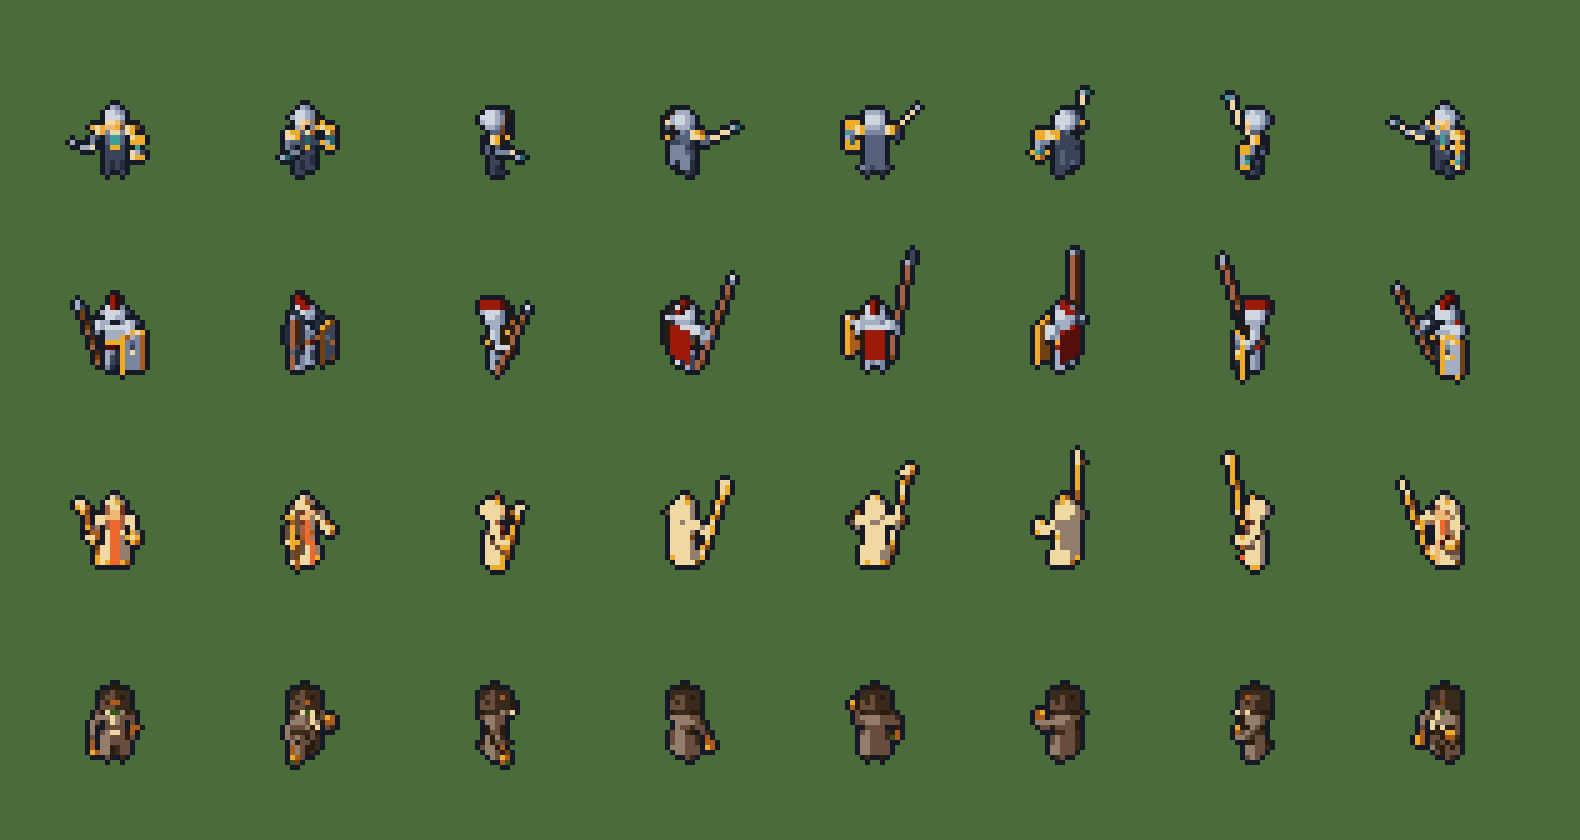
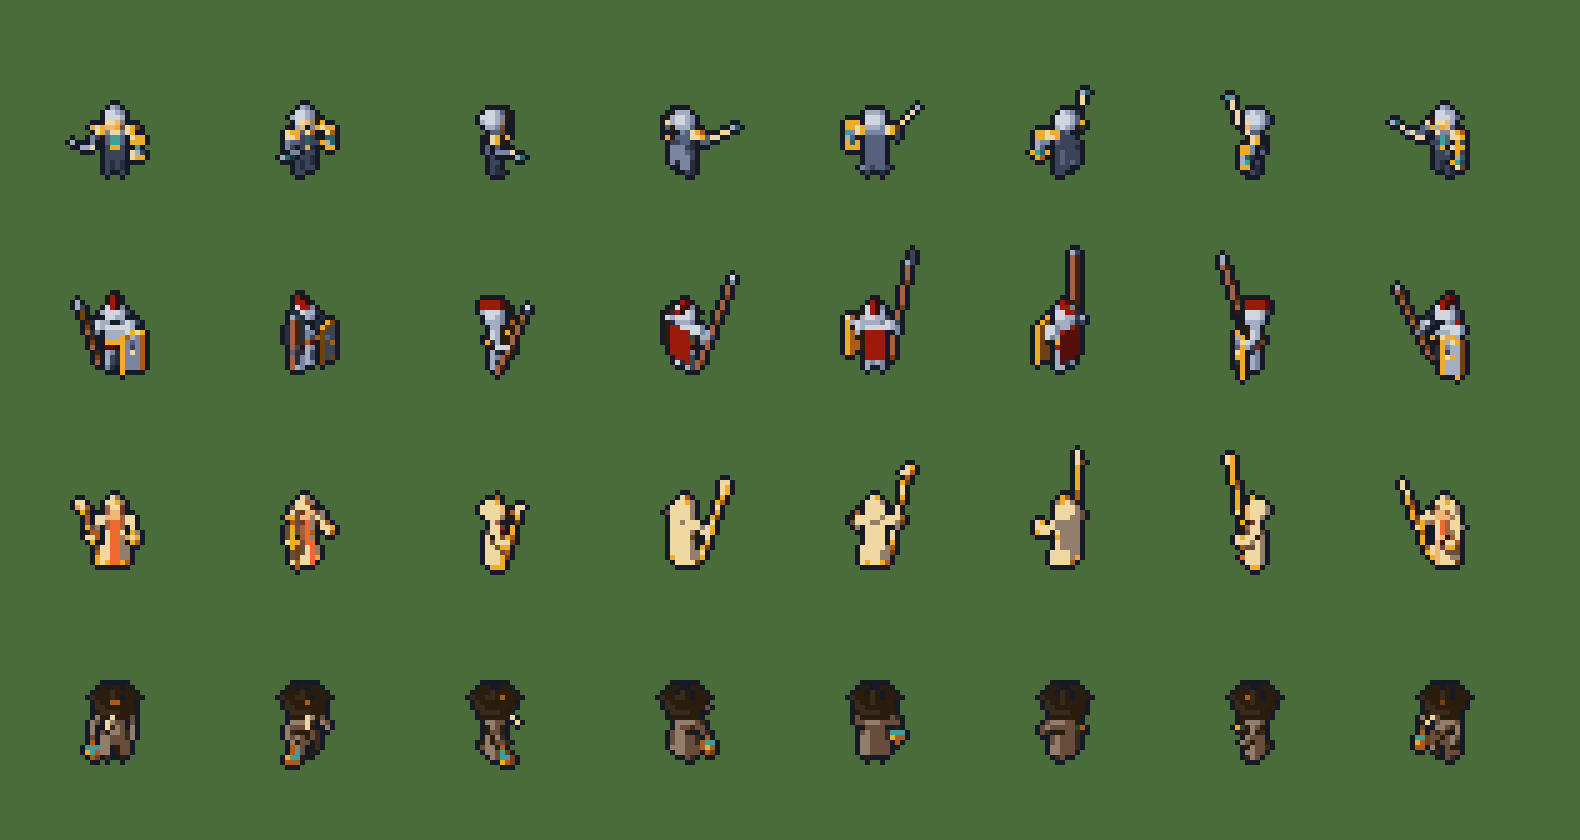
베스퍼 모자·새부리·독빛 — 챙 넓히고 어둡게, 새부리 틀기·조끼 낮추기, 향로 청록 독빛, 컴퍼스 빼기(Gemini 4차 «상»)
Gemini 4차가 베스퍼를 불합격으로 본 까닭(갈색 덩어리, S 새부리·조끼가 붙음, 독빛이 죽음, 컴퍼스 1px 점)을 고쳤다.
사용자가 «상» 지적 전부를 고르게 했다(2026-10-19).
독빛은 청록·노랑·독녹 세 안을 견줘 청록으로 했다. 렌즈는 45°에서 챙에 가려 어떤 색이어도 안 보인다.
45°에서는 새부리 끝이 조끼 높이까지 내려와, 조끼를 뼈색 그늘 단계로 낮춰 밝은 뼈색은 새부리만 쓴다.

Claude-Session: https://claude.ai/code/session_01XsJzvSywTfhUgL72Hqiuhg

diff --git a/tools/art/vesper.py b/tools/art/vesper.py
@@ -12,19 +12,25 @@ import render as R
 import seraphina as S
 
 OUT = Path(__file__).resolve().parents[2] / "art" / "trial" / "vesper"
+# 독빛은 청록이다. f24p에 밝은 연두가 없다. 노랑(efac28)은 놋쇠 향로와 섞였고, 독녹(39571c)은 들판에 묻혔다(세 안 비교, Gemini 4차 안 2026-10-19)
+GLOW = ["2d472d", "3c9f9c", "3c9f9c", "3c9f9c", "3c9f9c"]
 # 값이 hex 하나면 자동 램프, 5개 목록이면 손 램프(안쪽 외곽선, 음영 0~3. hero.ramp). f24p에 밝은 연두가 없어 독빛은 39571c, 그늘은 2d472d다(컨셉 README)
 BASE = {"leather": ["2a1d0d", "392a1c", "684c3c", "684c3c", "927e6a"],
-        "hat": ["2a1d0d", "2a1d0d", "392a1c", "392a1c", "684c3c"],
+        # 모자·장화·장갑. 2a1d0d~684c3c였을 때 코트와 명도가 붙어 1·2배에서 갈색 한 덩어리였다(Gemini 4차 2026-10-19)
+        "hat": ["151a26", "151a26", "2a1d0d", "2a1d0d", "392a1c"],
         "bone": ["684c3c", "927e6a", "927e6a", "efd8a1", "efd8a1"],
+        # 조끼는 뼈색 그늘 단계만 쓴다. 뼈색(efd8a1)이면 남(정면)에서 새부리 끝과 겹쳐 흰 넥타이로 이어졌다(Gemini 4차 2026-10-19)
+        "vest": ["392a1c", "684c3c", "927e6a", "927e6a", "927e6a"],
         "toxin": ["1f240a", "2d472d", "39571c", "39571c", "39571c"],
-        "brass": ["2a1d0d", "724113", "ab5c1c", "ab5c1c", "efac28"]}
+        "brass": ["2a1d0d", "724113", "ab5c1c", "ab5c1c", "efac28"],
+        "glow": GLOW}  # 렌즈·향로 독빛
 MATS = list(BASE)
-PARTS = ["leg", "torso", "head", "arm", "censer", "compass"]
+PARTS = ["leg", "torso", "head", "arm", "censer"]
 SIZES = (24,)
-TAG = f"m5 ppu{H.PPU24} vesper1"  # 형체 크기를 바꾸면 이 꼬리표도 바꾼다(fit.json)
+TAG = f"m5 ppu{H.PPU24} vesper2"  # 형체 크기를 바꾸면 이 꼬리표도 바꾼다(fit.json)
 
 CENSER = dict(sh_r=10, el_r=30, ab_r=0.6, sword=175, sword_side=0)  # 향로 사슬은 손에서 곧장 아래로 늘어진다(sword 180 = 아래)
-L_ARM = dict(sh_l=25, el_l=60, ab_l=0.3)  # 컴퍼스를 가슴 높이 앞에 든다
+L_ARM = dict(sh_l=15, el_l=30, ab_l=0.3)  # 빈 왼손. 컴퍼스는 24px에서 1px 주황 점이라 뺐다(Gemini 4차 2026-10-19)
 IDLE = dict(H.IDLE, **CENSER, **L_ARM)
 WALK = [dict(w, **CENSER, **L_ARM) for w in H.WALK]
 # 공격은 원거리(S121 사거리 3.5): 향로를 뒤로 낮게 젖혔다가(준비) 팔을 곧게 들어 머리 위로 휘돌리며 독빛을 키우고(발사, 가운데가 타격 프레임)
@@ -32,7 +38,7 @@ WALK = [dict(w, **CENSER, **L_ARM) for w in H.WALK]
 ATTACK = [dict(H.POSE, **L_ARM, sh_r=-40, el_r=20, ab_r=0.5, sword=215, lean=-5),
           dict(H.POSE, **L_ARM, sh_r=165, el_r=5, ab_r=0.5, sword=0, sword_side=20, lean=8, glow=1.4),
           dict(H.POSE, **L_ARM, sh_r=80, el_r=20, ab_r=0.45, sword=110, lean=4)]
-FALL = [dict(H.FALL[0], sword=175), dict(H.FALL[1], sword=175, compass=0)] + [dict(f, compass=0, censer=0) for f in H.FALL[2:]]
+FALL = [dict(H.FALL[0], sword=175), dict(H.FALL[1], sword=175)] + [dict(f, censer=0) for f in H.FALL[2:]]
 ANIMS = {"idle": [IDLE], "walk": WALK, "attack": ATTACK, "fall": FALL}
 
 
@@ -53,7 +59,8 @@ def vesper(pose, bob_unit):
         P += [(R.capsule(G(hip), G(knee), 0.05), m("leather"), "leg"), (R.capsule(G(knee), G(ankle), 0.048), m("hat"), "leg"),
               (R.ellipsoid(G(ankle + [0, 0.035, -0.005]), (0.042, 0.068, 0.032)), m("hat"), "leg")]
     P += [(R.box(U([0, 0, 0.575]), (0.12, 0.075, 0.12), up_r, 0.035), m("leather"), "torso"),  # 코트 윗몸
-          (R.box(U([0, 0.06, 0.53]), (0.045, 0.02, 0.09), up_r), m("bone"), "torso"),  # 앞섶 사이 뼈색 조끼
+          (R.box(U([0, 0.06, 0.51]), (0.045, 0.02, 0.07), up_r), m("vest"), "torso"),  # 앞섶 사이 조끼
+          (R.box(U([0, 0.07, 0.635]), (0.07, 0.025, 0.03), up_r, 0.01), m("hat"), "torso"),  # 목 가리개: 새부리와 조끼 사이를 끊는다
           (R.box(U([0, 0, 0.47]), (0.125, 0.08, 0.02), up_r), m("hat"), "torso"),  # 허리띠
           (R.box(U([0, 0.082, 0.47]), (0.025, 0.01, 0.02), up_r), m("brass"), "torso"),  # 놋쇠 버클
           (H.local(U, up_r, opened(lambda q: np.maximum(coat(q), -coat(q, -0.015)))), m("leather"), "torso"),  # 코트 자락
@@ -61,10 +68,12 @@ def vesper(pose, bob_unit):
           (lambda p: np.maximum(R.ellipsoid(U([0, -0.01, 0.64]), (0.2, 0.14, 0.09))(p), -((p - U([0, 0, 0.56])) @ up)), m("leather"), "torso")]  # 어깨 망토
     P += [(R.ellipsoid(U([0, -0.01, 0.80]), (0.125, 0.12, 0.13)), m("hat"), "head"),  # 두건
           (R.ellipsoid(U([0, 0.05, 0.79]), (0.1, 0.08, 0.1)), m("bone"), "head"),  # 가면
-          (R.capsule(U([0, 0.1, 0.77]), U([0, 0.29, 0.62]), 0.05, 0.014), m("bone"), "head")]  # 새부리: 남(정면)에서는 화면 아래로 짧아져 가슴 위 뼈색 세로줄이 된다. 동·서에서 앞으로 나온다
-    P += [(R.ellipsoid(U([0.05 * s, 0.115, 0.815]), (0.028, 0.02, 0.028)), m("toxin"), "head") for s in (-1, 1)]  # 독녹 렌즈
-    P += [(R.ellipsoid(U([0, 0, 0.9]), (0.2, 0.2, 0.02)), m("hat"), "head"),  # 챙
-          (lambda p: np.maximum(R.ellipsoid(U([0, -0.01, 0.9]), (0.095, 0.095, 0.11))(p), -((p - U([0, 0, 0.9])) @ up)), m("hat"), "head"),  # 모자 꼭대기
+          # 새부리: 오른쪽으로 25° 튼다. 곧게 앞으로 두면 남(정면)에서 화면 아래로 짧아져 조끼와 이어진 뼈색 세로띠(넥타이)가 됐다(Gemini 4차 2026-10-19)
+          (R.capsule(U([0.01, 0.1, 0.77]), U([0.12, 0.26, 0.62]), 0.05, 0.014), m("bone"), "head")]
+    P += [(R.ellipsoid(U([0.05 * s, 0.115, 0.815]), (0.028, 0.02, 0.028)), m("glow"), "head") for s in (-1, 1)]  # 렌즈
+    # 챙 반지름 0.2 → 0.26(양옆 1px씩), 꼭대기 높이 0.11 → 0.17(약 1px). 위에서 본 역병 의사 모자를 키운다(Gemini 4차 2026-10-19)
+    P += [(R.ellipsoid(U([0, 0, 0.9]), (0.26, 0.26, 0.02)), m("hat"), "head"),  # 챙
+          (lambda p: np.maximum(R.ellipsoid(U([0, -0.01, 0.9]), (0.095, 0.095, 0.17))(p), -((p - U([0, 0, 0.9])) @ up)), m("hat"), "head"),  # 모자 꼭대기
           (R.box(U([0, 0.09, 0.925]), (0.03, 0.008, 0.02), up_r), m("brass"), "head")]  # 모자 버클
     for side, s in (("l", -1), ("r", 1)):  # 팔: 가죽 소매, 장갑
         sh, el, hd = arms[side]
@@ -76,13 +85,9 @@ def vesper(pose, bob_unit):
     c = hd + bd * 0.24
     P += [] if not pose.get("censer", 1) else [
           (R.capsule(hd, hd + bd * 0.18, 0.03), m("brass"), "censer"),  # 사슬
-          (R.ellipsoid(c, (0.06, 0.06, 0.07)), m("brass"), "censer"),  # 향로
-          (R.ellipsoid(c, (0.065 * glow, 0.065 * glow, 0.02)), m("toxin"), "censer")]  # 독빛 구멍 띠
-    hl = U(arms["l"][2])
-    side = up_r @ np.array([1.0, 0, 0])
-    P += [] if not pose.get("compass", 1) else [
-          (R.capsule(hl, hl + up * 0.13 + side * 0.03, 0.028), m("brass"), "compass"),
-          (R.capsule(hl, hl + up * 0.13 - side * 0.03, 0.028), m("brass"), "compass")]
+          (R.ellipsoid(c, (0.085, 0.085, 0.095)), m("brass"), "censer"),  # 향로. 컴퍼스를 빼고 반지름을 0.5px 키웠다(Gemini 4차 2026-10-19)
+          # 독빛: 향로 윗면. 가운데 띠로 두면 45°에서 놋쇠에 가려 1px도 안 나왔다
+          (R.ellipsoid(c + up * 0.035, (0.075 * glow, 0.075 * glow, 0.065 * glow)), m("glow"), "censer")]
     return P
 
 

diff --git a/insights/2026-10-19_hero_sprites.md b/insights/2026-10-19_hero_sprites.md
@@ -74,9 +74,18 @@
   - 첫 안은 과녁 쪽 앞 위로 던졌다. 남·남동·남서에서 향로가 모자에 겹쳐 보이지 않았다. 지금은 바깥으로 20° 눕혀 머리와 띄웠다.
 - 쓰러짐: 기사 자세를 쓴다. 컴퍼스는 둘째 프레임부터, 향로는 셋째 프레임부터 사라진다. 모자는 쓴 채로 눕는다.
 
+### Gemini 4차 반영(사용자 2026-10-19 «상» 지적 전부)
+
+| 지적 | 고친 것 | 견준 안·남은 것 |
+|---|---|---|
+| 갈색 진흙 덩어리 | 모자·장화·장갑 램프를 `151a26·151a26·2a1d0d·2a1d0d·392a1c`로 낮췄다. 챙 반지름 0.2 → 0.26(양옆 1px씩), 꼭대기 높이 0.11 → 0.17 | 챙이 몸 폭보다 넓어 위에서 본 역병 의사 모자로 읽힌다. 캔버스는 다시 맞춰도 24px다(꼬리표 `vesper2`) |
+| S에서 새부리가 조끼와 붙어 흰 넥타이 | 새부리를 오른쪽으로 25° 틀고, 목 앞에 어두운 가리개를 두고, 조끼를 뼈색 그늘 단계(`927e6a`)로 낮췄다 | 45°에서는 새부리 끝이 화면상 조끼 높이까지 내려와 위치만으로는 떼지 못했다. 그래서 밝은 뼈색은 새부리만 쓴다 |
+| 독녹이 어둡고 렌즈·향로 독기가 죽었다 | 향로 윗면을 청록(`3c9f9c`) 독빛으로 칠했다 | 청록·노랑(`efac28`)·독녹(`39571c`) 세 안 가운데 청록만 보였다. 노랑은 놋쇠와 섞였고 독녹은 들판에 묻혔다. Claude가 처음 걱정한 팀 색 겹침은 향로 윗면 2~3px라 크지 않다고 봤다. 렌즈는 45°에서 챙에 가려 어떤 색이어도 보이지 않는다 |
+| 컴퍼스가 1px 주황 점 | 컴퍼스를 빼고 왼손을 내렸다. 향로 반지름을 0.06 → 0.085로 키웠다 | — |
+
 ### 약점(검수 때 볼 것)
 
-- 남(정면)에서 새부리가 조끼와 이어져 긴 뼈색 띠로 보인다.
+- 남(정면)에서 새부리가 조끼와 이어져 긴 뼈색 띠로 보인다(4차 반영 전).
 - 몸 전체가 갈색 한 덩어리다. 독녹은 렌즈·안감·향로 띠에만 있고, 들판 초록 위에서는 약하다.
 - 캔버스 24px로 다섯 중 가장 작다(새부리가 아래로 기울어 위로 솟는 것이 없다).
 
